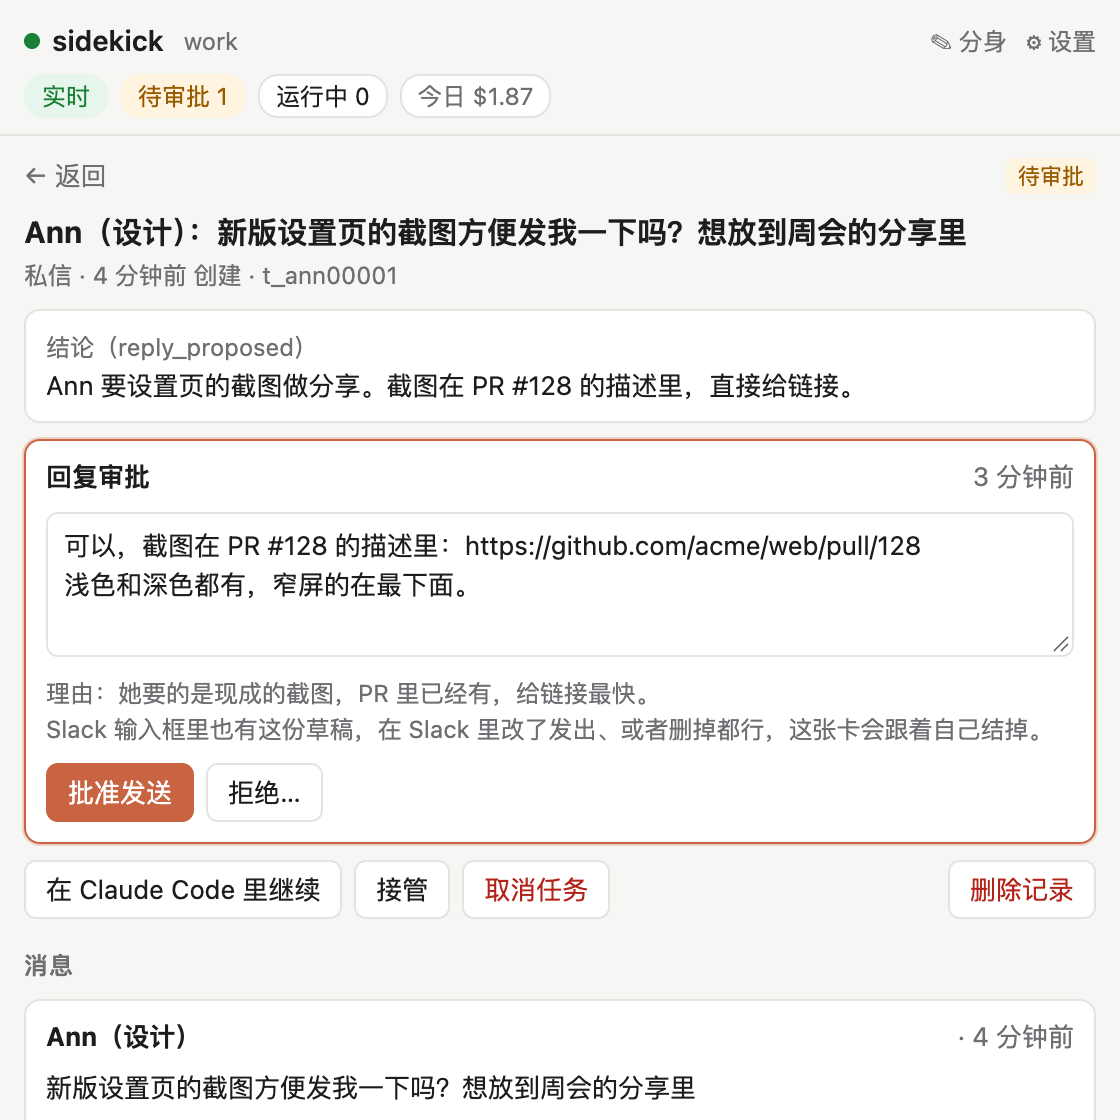
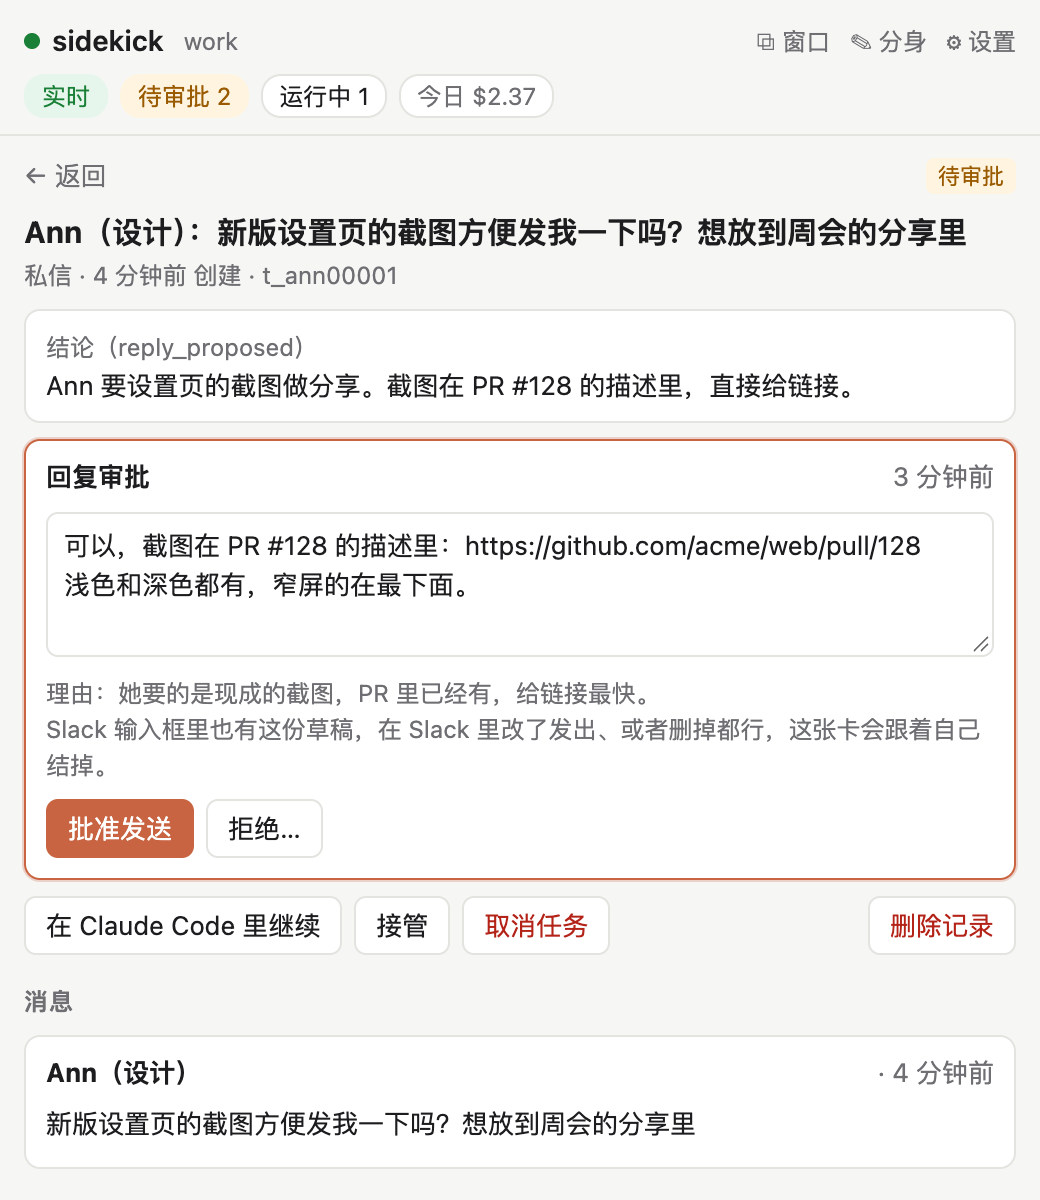
docs(readme): English README with a separate Chinese one, and fresh screenshots
README.md is English only and links to README.zh-CN.md. Both open with
the icon, the one-line pitch and two screenshots of equal height side by
side; the settings screenshot moves next to the settings list. All three
are retaken from the current panel with made-up data.

diff --git a/README.md b/README.md
@@ -1,13 +1,21 @@
-# sidekick
-
-English | [中文](#中文)
-
-A local agent for your Slack DMs and @-mentions, running on [Claude Code](https://code.claude.com). For each message it decides whether you need to reply, looks things up, and drafts the reply. Nothing goes out without your approval. It lives in the macOS menu bar.
-
-<p>
-  <img src="docs/images/tasks.png" width="380" alt="Task list: a reply waiting for approval, and something that needs you">
-  <img src="docs/images/approval.png" width="380" alt="Reply approval card: the agent's conclusion, the draft and its reason">
+<p align="center">
+  <img src="app/Resources/AppIcon.svg" width="96" alt="sidekick icon">
 </p>
+
+<h1 align="center">sidekick</h1>
+
+<p align="center">
+  A macOS menu bar agent that drafts your Slack replies with Claude Code, and sends nothing without your approval.
+</p>
+
+<p align="center"><b>English</b> · <a href="README.zh-CN.md">简体中文</a></p>
+
+<p align="center">
+  <img src="docs/images/tasks.png" width="400" alt="Task list: a running task, two replies waiting for approval, one that needs you, one done">
+  <img src="docs/images/approval.png" width="400" alt="A reply approval card: the agent's conclusion, the draft, its reason, and Approve / Deny">
+</p>
+
+sidekick watches your Slack DMs and the messages that @-mention you. For each one, an agent running on [Claude Code](https://code.claude.com) decides whether you need to reply, checks the facts (it can read your code), and drafts the reply. You approve it in the panel, or edit and send it from Slack yourself.
 
 > The app's interface is in Chinese for now. Where this README names a place in the app, the Chinese label comes first, followed by its meaning.
 
@@ -40,7 +48,12 @@ Requirements: a Mac with Apple silicon (macOS 13 or later), [Claude Code](https:
 
 2. On launch the app installs the daemon as a LaunchAgent (`~/Library/LaunchAgents/local.sidekick.daemon.plist`), and macOS will say a background item was added. If the panel can't reach the daemon, open System Settings → General → Login Items, turn on sidekick under "Allow in the Background", and reopen Sidekick.
 3. Click ✨ in the menu bar and choose a folder as the workspace. The agent runs there and can read the code in it, so the parent folder of your repositories is a good choice. A folder without `sidekick/profile.yaml` gets a profile, a Slack workflow and a persona template.
-4. "Getting started" (开始用 sidekick) on the home page walks you through the rest: sign in to Slack once, in a separate Chrome window that the button opens (not your everyday browser: Chrome won't let sidekick read the tokens from your own profile), write your persona, allow notifications. Then pick a past message and do a dry run (试跑) to see what it would have done.
+4. "Getting started" (开始用 sidekick) on the home page walks you through the rest:
+   - Sign in to Slack once, in a separate Chrome window that the button opens. It is not your everyday browser: Chrome won't let sidekick read the sign-in from your own profile. The window keeps the session, so when it expires, one click signs you in again.
+   - Write your persona.
+   - Allow notifications.
+
+   Then pick a past message and do a dry run (试跑) to see what it would have done.
 
 If something is off, open 设置 → 诊断 (Settings → Diagnostics). Every failing check says how to fix it.
 
@@ -48,19 +61,24 @@ If something is off, open 设置 → 诊断 (Settings → Diagnostics). Every fa
 
 When a new version is out, the panel shows 新版本 x (new version) at the top. Click it, then 升级 (Upgrade): Terminal reruns the install command, and the new version opens. Running tasks are queued again and resume within seconds. Rerunning the install command yourself does the same.
 
-<img src="docs/images/settings.png" width="520" alt="Settings: reply mode, Slack, follow-ups in the same conversation, which messages to handle">
-
 ## Using it
 
-Left-click ✨ for the panel; right-click for a separate window, restarting the daemon, and launch at login. Slack is polled every 5 minutes. Realtime mode (设置 → Slack) handles new messages within seconds over Slack web's own websocket, and falls back to polling when that misbehaves. Pending approvals show up as notifications you can approve or deny right there. The draft also waits in Slack's message box: send it from Slack, edited or not, or delete it, and the card in sidekick closes on its own.
+Left-click ✨ for the panel; right-click for a separate window, restarting the daemon, and launch at login. Pending approvals show up as notifications you can approve or deny right there. The draft also waits in Slack's message box: send it from Slack, edited or not, or delete it, and the card in sidekick closes on its own.
 
-In 设置 (Settings) you can also:
+Slack is polled every 5 minutes. Realtime mode (设置 → Slack) handles new messages within seconds over Slack web's own websocket, and falls back to polling when that misbehaves.
+
+### Settings
+
+<img src="docs/images/settings.png" width="400" alt="Settings: reply mode, the signature line and scheduled full auto; Slack connection, sign-in and realtime mode">
+
+In 设置 (Settings) you can:
 
 - turn full auto on a schedule (定时全托管), e.g. 12:00–13:30 on weekdays;
 - turn the signature line off (回复带署名行);
 - set how long a conversation keeps its task (同一对话的新消息): a thread with no time limit and a DM for 2 hours by default;
 - set which messages to skip and the working hours (处理哪些消息);
-- set which notifications you get: macOS notifications, and a Slack DM to yourself that reaches your phone (通知).
+- set which notifications you get: macOS notifications, and a Slack DM to yourself that reaches your phone (通知);
+- choose where "Continue in Claude Code" opens: Terminal or the Claude desktop app (在 Claude Code 里继续).
 
 The panel also opens in a browser at `http://127.0.0.1:47321`. The first time, paste the `token` from `~/.config/sidekick/runtime.json`.
 
@@ -93,82 +111,9 @@ How it's put together: a Bun daemon (task ledger in SQLite, local HTTP API and t
 ## Privacy and disclaimer
 
 - sidekick keeps no data off your Mac and collects nothing. Messages and code it reads go to Claude through your own Claude Code, as any Claude Code session does.
-- Slack access goes through slackcli with your browser session, the one the Slack web client uses, and in realtime mode Slack web's internal websocket. These are not official Slack APIs: they can break, and your workspace's policies may not allow them. Check before you use it at work. Provided for personal learning and research.
+- Slack access goes through slackcli with a Slack web session, the one you sign in to in sidekick's own Chrome window, and in realtime mode Slack web's internal websocket. These are not official Slack APIs: they can break, and your workspace's policies may not allow them. Check before you use it at work. Provided for personal learning and research.
 - Replies go out under your name. In the default mode they wait for your approval; in full auto mode they don't, and what is sent is your responsibility.
 
 ## License
-
-[MIT](LICENSE)
-
----
-
-## 中文
-
-本机常驻的 Slack 助手，跑在 [Claude Code](https://code.claude.com) 上：私信你、@ 你的消息，它先判断要不要回，要回就查证据、起草回复，经你批准才发出。住在 macOS 菜单栏里。
-
-### 它怎么处理一条 Slack 消息
-
-```
-未读的私信我 / @ 我
-  → agent（Claude Code，一个对话一个会话）：要不要回？要回就查证据、起草 → 审批卡，草稿同时放进 Slack 输入框
-  → 你在面板里批准，或者在 Slack 里自己改了发出 → 卡结掉
-```
-
-- **先审批再发出**：默认每条回复都等你批。全托管时直接发出（请假、午休用），可以按时间表自动切换，每条自动发出的都私信你一份。
-- **分身**：写清你是谁、负责什么、怎么说话、哪些事不能替你答应。不想手写，就复制一段 prompt 交给你自己的 Claude Code，它会问你几个问题，参考你最近改过的回复帮你写好。
-- **署名行**：sidekick 发出的回复上面有一行灰色小字，说明是助手起草的、你批没批过。
-- **一个对话一个任务**：同一个 thread 或私信里的后续消息并进同一个任务，接着同一个会话处理，一个对话只留一张审批卡。
-- **处理前过滤，不花钱**：可以不处理某些人、某些频道；下班时间只收不处理。
-- **交还给你**：「在 Claude Code 里继续」在你自己的 Claude Code 里打开这个任务的会话，可以是终端，也可以是 Claude 桌面 app。
-- **数据在本机**：任务账本、分身、设置都只在你的 Mac 上。
-
-### 安装
-
-前提：Apple 芯片的 Mac（macOS 13 起），[Claude Code](https://code.claude.com) 已安装并登录（`~/.local/bin/claude`），装了 Google Chrome（或 Edge、Brave），登录 Slack 时要用。不用装 Bun，也不用这个仓库：daemon 和 slackcli 都编进了 Sidekick.app。
-
-1. 在终端运行这一行：下载最新版、校验、装进「应用程序」并打开。用 curl 下载的 app 不带隔离标记，不用再手动放行。
-
-   ```bash
-   curl -fsSL https://raw.githubusercontent.com/lilong7676/sidekick/main/scripts/install.sh | bash
-   ```
-
-2. app 打开后会把 daemon 装成后台常驻（`~/Library/LaunchAgents/local.sidekick.daemon.plist`），macOS 会提示「已添加后台项目」。面板一直连不上的话，去 系统设置 → 通用 → 登录项，在「允许在后台」里打开 sidekick，再重新打开 Sidekick。
-3. 点菜单栏的 ✨，选一个文件夹当工作区：agent 在这里运行，能读里面的代码，建议选放代码仓库的上一级目录。没有 `sidekick/profile.yaml` 的文件夹，会按模板建好 profile、处理 Slack 的流程和分身。
-4. 主页上的「开始用 sidekick」会带你做完剩下几步：登录 Slack（点按钮会单独开一个 Chrome 窗口，不是你平时的浏览器，因为 Chrome 不允许读你日常配置里的登录信息；在里面登录一次就行）、写分身、允许通知。写完挑一条历史消息「试跑」看效果。
-
-有问题去「设置 → 诊断」，每一项不通过都写了怎么修。
-
-### 升级
-
-有新版本时，面板顶部会出现「新版本 x」：点进去再点「升级」，会在终端里重跑上面那行安装命令，换上新版后重新打开。正在跑的任务会重新排队，十几秒后接着处理。直接在终端再跑一遍那行命令也一样。
-
-### 使用
-
-左键点菜单栏的 ✨ 打开面板；右键有「打开窗口」「重启 daemon」「开机自动启动」。Slack 默认每 5 分钟轮询一次。在「设置 → Slack」打开实时模式后，新消息几秒内就处理；实时用的是 Slack 网页版内部的 websocket，不稳定时会自动回退到轮询。待审批会弹系统通知，可以直接在通知上批准或拒绝。回复同时会以草稿放进 Slack 输入框：在 Slack 里改了直接发出、或者删掉草稿都行，sidekick 里的卡会跟着结掉。
-
-「设置」里还能改这些：
-- 定时全托管：比如工作日 12:00–13:30。
-- 回复带署名行：可以关掉。
-- 同一对话的新消息并多久：默认 thread 不限时、私信 2 小时。
-- 处理哪些消息：哪些人、哪些频道不处理，以及上班时间。
-- 通知：macOS 通知，以及给你自己发的 Slack 私信提醒（手机上也能看到）。
-
-浏览器也能打开 `http://127.0.0.1:47321`，第一次要粘贴 `~/.config/sidekick/runtime.json` 里的 `token`。
-
-### 命令行
-
-装了 app 的用 `/Applications/Sidekick.app/Contents/Resources/bin/sidekick`，源码里用 `bun src/cli.ts`。命令见上面英文部分，`sidekick --help` 有中文说明。
-
-### 从源码构建
-
-需要 [Bun](https://bun.sh) 和 Xcode 命令行工具：`cd app && make install && make run` 编译并安装；`make zip` 打出和 Release 一样的安装包。设计文档在 [docs/plan.md](docs/plan.md) 和 [docs/adr/](docs/adr/)。
-
-### 隐私与免责声明
-
-- sidekick 不把数据存到你的 Mac 以外，也不收集任何数据。它读到的消息和代码，会像平常的 Claude Code 会话一样，经你自己的 Claude Code 发给 Claude。
-- Slack 访问通过 slackcli，用的是你浏览器里的登录态（也就是 Slack 网页版用的那份）；实时模式用的是 Slack 网页版内部的 websocket。这些都不是 Slack 官方 API，可能失效，也可能不符合你所在工作区的规定，在工作中使用前请先确认。仅供个人学习研究。
-- 回复以你的名义发出。默认模式下都要你批准；全托管时不经你确认，发出的内容由你负责。
-
-### 许可证
 
 [MIT](LICENSE)

diff --git a/README.zh-CN.md b/README.zh-CN.md
@@ -1,0 +1,123 @@
+<p align="center">
+  <img src="app/Resources/AppIcon.svg" width="96" alt="sidekick 图标">
+</p>
+
+<h1 align="center">sidekick</h1>
+
+<p align="center">
+  住在 macOS 菜单栏里的 Slack 助手：用 Claude Code 起草回复，经你批准才发出。
+</p>
+
+<p align="center"><a href="README.md">English</a> · <b>简体中文</b></p>
+
+<p align="center">
+  <img src="docs/images/tasks.png" width="400" alt="任务列表：一个正在处理、两条回复等你批准、一条要你自己看、一条已完成">
+  <img src="docs/images/approval.png" width="400" alt="回复审批卡：agent 的结论、草稿、理由，以及批准和拒绝">
+</p>
+
+私信你、@ 你的 Slack 消息，sidekick 都会交给跑在 [Claude Code](https://code.claude.com) 上的 agent：先判断要不要回，要回就查证据（能读你的代码）、起草回复。你在面板里批准，或者在 Slack 里自己改了发出都行。
+
+## 它怎么处理一条 Slack 消息
+
+```
+未读的私信我 / @ 我
+  → agent（Claude Code，一个对话一个会话）：要不要回？要回就查证据、起草 → 审批卡，草稿同时放进 Slack 输入框
+  → 你在面板里批准，或者在 Slack 里自己改了发出 → 卡结掉
+```
+
+- **先审批再发出**：默认每条回复都等你批。全托管时直接发出（请假、午休用），可以按时间表自动切换，每条自动发出的都私信你一份。
+- **分身**：写清你是谁、负责什么、怎么说话、哪些事不能替你答应。不想手写，就复制一段 prompt 交给你自己的 Claude Code，它会问你几个问题，参考你最近改过的回复帮你写好。
+- **署名行**：sidekick 发出的回复上面有一行灰色小字，说明是助手起草的、你批没批过。
+- **一个对话一个任务**：同一个 thread 或私信里的后续消息并进同一个任务，接着同一个会话处理，一个对话只留一张审批卡。
+- **处理前过滤，不花钱**：可以不处理某些人、某些频道；下班时间只收不处理。
+- **交还给你**：「在 Claude Code 里继续」在你自己的 Claude Code 里打开这个任务的会话，可以是终端，也可以是 Claude 桌面 app。
+- **数据在本机**：任务账本、分身、设置都只在你的 Mac 上。
+
+## 安装
+
+前提：
+- Apple 芯片的 Mac，macOS 13 起；
+- [Claude Code](https://code.claude.com) 已安装并登录（`~/.local/bin/claude`）；
+- 装了 Google Chrome（或 Edge、Brave），登录 Slack 时要用。
+
+不用装 Bun，也不用这个仓库：daemon 和 slackcli 都编进了 Sidekick.app。
+
+1. 在终端运行这一行：下载最新版、校验、装进「应用程序」并打开。用 curl 下载的 app 不带隔离标记，不用再手动放行。
+
+   ```bash
+   curl -fsSL https://raw.githubusercontent.com/lilong7676/sidekick/main/scripts/install.sh | bash
+   ```
+
+2. app 打开后会把 daemon 装成后台常驻（`~/Library/LaunchAgents/local.sidekick.daemon.plist`），macOS 会提示「已添加后台项目」。面板一直连不上的话，去 系统设置 → 通用 → 登录项，在「允许在后台」里打开 sidekick，再重新打开 Sidekick。
+3. 点菜单栏的 ✨，选一个文件夹当工作区：agent 在这里运行，能读里面的代码，建议选放代码仓库的上一级目录。没有 `sidekick/profile.yaml` 的文件夹，会按模板建好 profile、处理 Slack 的流程和分身。
+4. 主页上的「开始用 sidekick」会带你做完剩下几步：
+   - 登录 Slack：点按钮会单独开一个 Chrome 窗口，在里面登录一次。它不是你平时的浏览器，因为 Chrome 不允许读你日常配置里的登录信息。这个窗口会记住登录，以后过期了点一下就能续上。
+   - 写分身。
+   - 允许通知。
+
+   写完挑一条历史消息「试跑」，看看它会怎么处理。
+
+有问题去「设置 → 诊断」，每一项不通过都写了怎么修。
+
+### 升级
+
+有新版本时，面板顶部会出现「新版本 x」：点进去再点「升级」，会在终端里重跑上面那行安装命令，换上新版后重新打开。正在跑的任务会重新排队，十几秒后接着处理。直接在终端再跑一遍那行命令也一样。
+
+## 使用
+
+左键点菜单栏的 ✨ 打开面板；右键有「打开窗口」「重启 daemon」「开机自动启动」。待审批会弹系统通知，可以直接在通知上批准或拒绝。回复同时会以草稿放进 Slack 输入框：在 Slack 里改了直接发出、或者删掉草稿都行，sidekick 里的卡会跟着结掉。
+
+Slack 默认每 5 分钟轮询一次。在「设置 → Slack」打开实时模式后，新消息几秒内就处理；实时用的是 Slack 网页版内部的 websocket，不稳定时会自动回退到轮询。
+
+### 设置
+
+<img src="docs/images/settings.png" width="400" alt="设置页：回复方式（托管模式、署名行、定时全托管），Slack 连接、登录和实时模式">
+
+「设置」里可以改这些：
+
+- 定时全托管：比如工作日 12:00–13:30。
+- 回复带署名行：可以关掉。
+- 同一对话的新消息并多久：默认 thread 不限时、私信 2 小时。
+- 处理哪些消息：哪些人、哪些频道不处理，以及上班时间。
+- 通知：macOS 通知，以及给你自己发的 Slack 私信提醒（手机上也能看到）。
+- 「在 Claude Code 里继续」在哪打开：终端，或者 Claude 桌面 app。
+
+浏览器也能打开 `http://127.0.0.1:47321`，第一次要粘贴 `~/.config/sidekick/runtime.json` 里的 `token`。
+
+## 命令行
+
+装了 app 的用 `/Applications/Sidekick.app/Contents/Resources/bin/sidekick`，源码里用 `bun src/cli.ts`：
+
+```bash
+sidekick tasks                  # 未结束的任务
+sidekick approvals              # 待审批
+sidekick approve <id>           # 批准；--text-file 可以改写回复正文
+sidekick deny <id> --note "…"   # 拒绝；带意见会让 agent 按意见重做
+sidekick add "要做的事"          # 手动派活
+sidekick takeover <task>        # 暂停任务，打印在终端接管会话的命令
+sidekick task <task>            # 任务详情：事件、每轮运行、审批
+sidekick doctor                 # 体检，和面板里的「设置 → 诊断」是同一套
+```
+
+`sidekick --help` 有完整的中文说明。
+
+## 从源码构建
+
+需要 [Bun](https://bun.sh) 和 Xcode 命令行工具。
+
+```bash
+cd app && make install && make run   # 编译 daemon 和 slackcli，组装 Sidekick.app，安装并打开
+cd app && make zip                   # 打出和 Release 一样的 app/build/Sidekick-v<版本>.zip
+```
+
+组成：一个 Bun 写的 daemon（SQLite 任务账本、本地 HTTP API 和网页面板），一个 Swift 写的菜单栏 app（承载面板，把 daemon 作为 LaunchAgent 常驻），以及访问 Slack 用的 [slackcli](https://github.com/lilong7676/slackcli)。推 `v*` tag 会用 GitHub Actions 构建并发布 Release。设计文档在 [docs/plan.md](docs/plan.md) 和 [docs/adr/](docs/adr/)。
+
+## 隐私与免责声明
+
+- sidekick 不把数据存到你的 Mac 以外，也不收集任何数据。它读到的消息和代码，会像平常的 Claude Code 会话一样，经你自己的 Claude Code 发给 Claude。
+- Slack 访问通过 slackcli，用的是 Slack 网页版的登录态，也就是你在 sidekick 单独打开的 Chrome 窗口里登录的那份；实时模式用的是 Slack 网页版内部的 websocket。这些都不是 Slack 官方 API，可能失效，也可能不符合你所在工作区的规定，在工作中使用前请先确认。仅供个人学习研究。
+- 回复以你的名义发出。默认模式下都要你批准；全托管时不经你确认，发出的内容由你负责。
+
+## 许可证
+
+[MIT](LICENSE)
